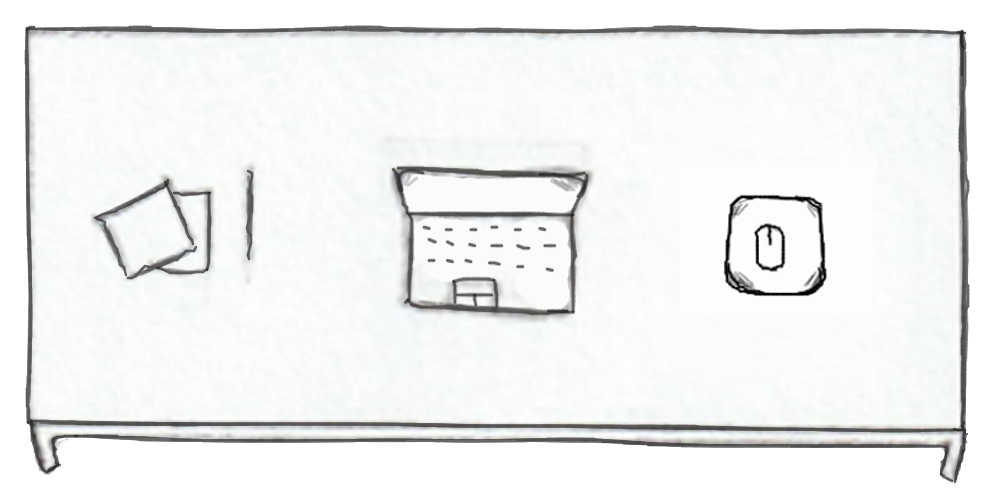
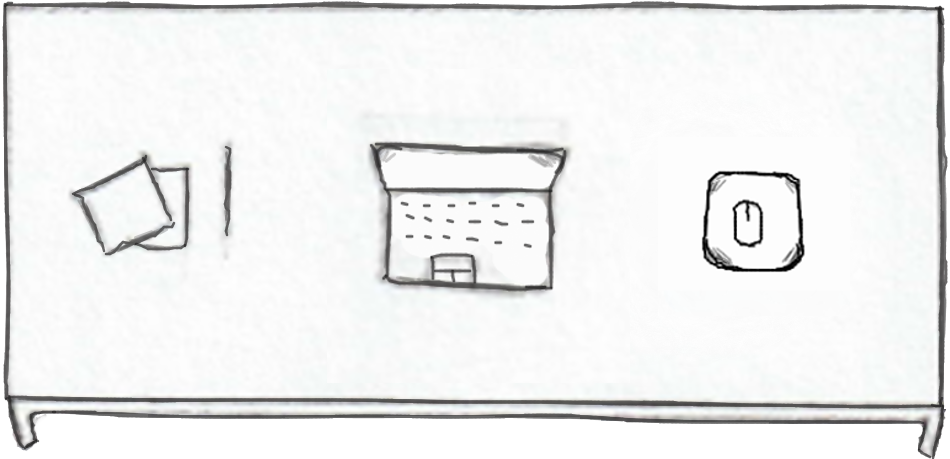
added resizing, rotating, & deleting to furniture
Basically a finished product at this point, but I will be adding quite a bit more to make this app look more refined!

Changed region(s): [[0.0, 0.0, 1.0, 1.0], [0.3663, 0.305, 0.6105, 0.6405], [0.7021, 0.366, 0.8547, 0.61]]

diff --git a/main.py b/main.py
@@ -1,22 +1,24 @@
 # Room Planner!
 # Author: Logan Markley
-# Last Updated: 8/6/2023
+# Last Updated: 8/7/2023
 # Version: Not Finished
-# Latest Addition: Added ability to spawn in and move furniture
+# Latest Addition: Added ability to rotate, scale, and delete furniture
 # Date Started: 8/2/2023
-# Desc: Using Pygame and maybe Pickle, create a fully functioning room planner
+# Desc: Using Pygame, create a fully functioning room planner
 #       where you can drag and drop items, customize dimensions, etc.
 
-import pygame, random
 from sys import exit
-from math import sqrt
+
+import math
+import pygame
+import random
 
 
 def draw_line(vertex1, vertex2) -> None:  # this static function allows for easy color changing and simpler lines
     offset = pygame.math.Vector2(VERTEX_RADIUS, VERTEX_RADIUS)
     vertex1_vector = pygame.math.Vector2(vertex1.rect.x, vertex1.rect.y) + offset
     vertex2_vector = pygame.math.Vector2(vertex2.rect.x, vertex2.rect.y) + offset
-    pygame.draw.aaline(screen, (150, 150, 150), vertex1_vector, vertex2_vector)
+    pygame.draw.aaline(screen, (0, 0, 0), vertex1_vector, vertex2_vector)
     # draw line starts the line from the top left corner of the rect, but we want to connect it
     # to the center of our rectangle, so we need to offset the position vector by the radius
 
@@ -24,8 +26,8 @@ def draw_line(vertex1, vertex2) -> None:  # this static function allows for easy
 def calculate_distance(vertex1, vertex2) -> int:  # returns the distance between two vertices in "inches"
     x_difference = vertex1.rect.x - vertex2.rect.x
     y_difference = vertex1.rect.y - vertex2.rect.y
-    hypotenuse = sqrt(x_difference ** 2 + y_difference ** 2)
-    return int(hypotenuse // 5)  # (5px = 1in)
+    hypotenuse = math.sqrt(x_difference ** 2 + y_difference ** 2)
+    return int(hypotenuse // PIXELS_PER_INCH)
 
 
 def calculate_halfway_point(vertex1, vertex2) -> tuple:
@@ -36,12 +38,20 @@ def calculate_halfway_point(vertex1, vertex2) -> tuple:
 
 class Room:
     def __init__(self):
-        self.wall_vertices = [Vertex(700, 300), Vertex(1100, 300),
-                              Vertex(1100, 600), Vertex(700, 600)]
+        self.wall_vertices = [Vertex(550, 100), Vertex(1350, 100),
+                              Vertex(1350, 800), Vertex(550, 800)]
         self.furniture_pieces = []
 
-    def add_furniture(self, furn_object):
+    def add_furniture(self, furn_object) -> None:
         self.furniture_pieces.append(furn_object)
+
+    def delete_furniture(self, index) -> None:
+        self.furniture_pieces.pop(index)
+
+    def bring_furn_to_top(self, index) -> int:  # moves the object at index to the end of the list
+        self.furniture_pieces.append(self.furniture_pieces[index])
+        self.furniture_pieces.pop(index)
+        return len(self.furniture_pieces) - 1
 
     def add_vertex(self) -> None:
         vert1 = self.wall_vertices[0]
@@ -54,17 +64,9 @@ class Room:
             self.wall_vertices.pop(len(self.wall_vertices) - 1)
 
     def draw_walls(self) -> None:
-        all_connected = False
-        current_index = 0
-        while not all_connected:
-            draw_line(self.wall_vertices[current_index], self.wall_vertices[current_index + 1])
-            draw_line(self.wall_vertices[current_index], self.wall_vertices[current_index + 1])
-            draw_line(self.wall_vertices[current_index], self.wall_vertices[current_index + 1])
-            if current_index < len(self.wall_vertices) - 2:
-                current_index += 1
-            else:
-                all_connected = True
-                draw_line(self.wall_vertices[current_index + 1], self.wall_vertices[0])  # This draws the last line
+        for index in range(len(self.wall_vertices) - 1):
+            draw_line(self.wall_vertices[index], self.wall_vertices[index + 1])
+        draw_line(self.wall_vertices[len(self.wall_vertices) - 1], self.wall_vertices[0])  # draws the last line
 
     def draw_vertices(self) -> None:
         for i in range(0, len(self.wall_vertices)):
@@ -74,18 +76,21 @@ class Room:
         f = pygame.font.Font('Fonts/MADEVoyager.otf', 18)
         for i in range(0, len(self.wall_vertices)):
             if i == len(self.wall_vertices) - 1:
-                distance = calculate_distance(self.wall_vertices[i], self.wall_vertices[0])
-                halfway_pt = calculate_halfway_point(self.wall_vertices[i], self.wall_vertices[0])
+                distance = calculate_distance(self.wall_vertices[0], self.wall_vertices[i])
+                halfway_pt = calculate_halfway_point(self.wall_vertices[0], self.wall_vertices[i])
             else:
                 distance = calculate_distance(self.wall_vertices[i], self.wall_vertices[i + 1])
                 halfway_pt = calculate_halfway_point(self.wall_vertices[i], self.wall_vertices[i + 1])
+
             dimension = str(distance) + '"'
             text_surface = f.render(dimension, True, (100, 100, 100))
             screen.blit(text_surface, (halfway_pt[0] + 4, halfway_pt[1] - 21))  # arbitrary styling numbers
 
-    def draw_all_furniture(self) -> None:
+    def draw_all_furniture(self, draw_overlay, overlay_index) -> None:
         for i in range(0, len(self.furniture_pieces)):
             self.furniture_pieces[i].draw_furniture()
+        if draw_overlay:
+            self.furniture_pieces[overlay_index].draw_furn_overlay()
 
 
 class Vertex:
@@ -98,36 +103,57 @@ class Vertex:
 
 
 class Furniture:
-    def __init__(self, f_type, id_num):
-        self.id = id_num
+    def __init__(self, f_type):
         self.furn_type = f_type
         if self.furn_type == 'Bed':
-            self.img = pygame.transform.scale_by(BED_IMG, .27)
+            self.img = pygame.transform.scale_by(BED_IMG, .47)
         elif self.furn_type == 'Desk':
-            self.img = pygame.transform.scale_by(DESK_IMG, .15)
+            self.img = pygame.transform.scale_by(DESK_IMG, .25)
         elif self.furn_type == 'Nightstand':
-            self.img = pygame.transform.scale_by(NIGHTSTAND_IMG, .103)
+            self.img = pygame.transform.scale_by(NIGHTSTAND_IMG, .23)
         elif self.furn_type == 'Rug':
-            self.img = pygame.transform.scale_by(RUG_IMG, .14)
+            self.img = pygame.transform.scale_by(RUG_IMG, .24)
         elif self.furn_type == 'Dresser':
-            self.img = pygame.transform.scale_by(DRESSER_IMG, .13)
+            self.img = pygame.transform.scale_by(DRESSER_IMG, .33)
         elif self.furn_type == 'Chair':
-            self.img = pygame.transform.scale_by(CHAIR_IMG, .12)
+            self.img = pygame.transform.scale_by(CHAIR_IMG, .32)
         elif self.furn_type == 'TV':
-            self.img = pygame.transform.scale_by(TV_IMG, .12)
+            self.img = pygame.transform.scale_by(TV_IMG, .32)
         elif self.furn_type == 'Lamp':
-            self.img = pygame.transform.scale_by(LAMP_IMG, .12)
+            self.img = pygame.transform.scale_by(LAMP_IMG, .32)
         elif self.furn_type == 'Door':
-            self.img = pygame.transform.scale_by(DOOR_IMG, .12)
+            self.img = pygame.transform.scale_by(DOOR_IMG, .32)
         elif self.furn_type == 'Window':
-            self.img = pygame.transform.scale_by(WINDOW_IMG, .12)
+            self.img = pygame.transform.scale_by(WINDOW_IMG, .32)
         self.rect = self.img.get_rect()
-        x_pos = random.randint(730, 1070)
+        x_pos = random.randint(730, 1070)  # initially spawn the furniture randomly in the middle
         y_pos = random.randint(330, 570)
         self.rect.center = (x_pos, y_pos)
 
-    def draw_furniture(self):
+        self.rotate_btn_img = pygame.image.load('Graphics/rotate_arrow.png').convert_alpha()
+        self.rotate_btn_rect = self.rotate_btn_img.get_rect()
+        self.delete_btn_img = pygame.image.load('Graphics/red_x_circle.png').convert_alpha()
+        self.delete_btn_rect = self.delete_btn_img.get_rect()
+
+    def draw_furniture(self) -> None:
         screen.blit(self.img, self.rect.topleft)
+
+    def draw_furn_overlay(self) -> None:
+        self.rotate_btn_rect.topleft = self.rect.bottomright
+        screen.blit(self.rotate_btn_img, self.rotate_btn_rect.topleft)
+        self.delete_btn_rect.topleft = self.rect.topright
+        screen.blit(self.delete_btn_img, self.delete_btn_rect.topleft)
+
+    def rotate_furniture(self, mouse) -> None:
+        old_center = self.rect.center
+        x = mouse[0] - self.rect.centerx
+        y = mouse[1] - self.rect.centery
+        d = math.sqrt(x ** 2 + y ** 2)
+        angle = math.degrees(-math.atan2(y, x))
+        scale = abs(3.1 * d / SCREEN_WIDTH)
+        self.img = pygame.transform.rotozoom(globals()[self.furn_type.upper() + '_IMG'], angle, scale)
+        self.rect = self.img.get_rect()
+        self.rect.center = old_center
 
 
 class UserInterface:
@@ -150,7 +176,7 @@ class UserInterface:
         self.btn_door_rect = pygame.Rect(2, 58 + 4 * (btn_height + 4), btn_width, btn_height)
         self.btn_window_rect = pygame.Rect(7 + btn_width, 58 + 4 * (btn_height + 4), btn_width, btn_height)
 
-    def draw_user_interface(self):
+    def draw_user_interface(self) -> None:
         self.draw_furniture_panel()
         pygame.draw.rect(screen, (100, 200, 100), self.btn_add_vertex_rect, 0, 10)
         pygame.draw.rect(screen, (200, 100, 100), self.btn_minus_vertex_rect, 0, 10)
@@ -168,14 +194,18 @@ class UserInterface:
         text_surface = f.render('+', True, (80, 80, 80))
         screen.blit(text_surface, (SCREEN_WIDTH - 66, SCREEN_HEIGHT - 110))  # plus sign on button
 
-    def draw_grid(self, draw_grid_bool):
-        if draw_grid_bool:
-            for i in range(0, 56):  # draws horizontal lines and then vertical lines with 20 pixel gaps
-                pygame.draw.line(screen, (225, 225, 225), (self.FURNITURE_PANEL_WIDTH, i * 20), (SCREEN_WIDTH, i * 20))
-                pygame.draw.line(screen, (225, 225, 225), (self.FURNITURE_PANEL_WIDTH + i * 20, 0),
-                                 (self.FURNITURE_PANEL_WIDTH + i * 20, SCREEN_HEIGHT))
+    def draw_grid(self) -> None:
+        pixel_gap = 20
+        num_horizontal_lines = SCREEN_HEIGHT // pixel_gap + 1  # an extra just in case
+        num_vertical_lines = (SCREEN_WIDTH - self.FURNITURE_PANEL_WIDTH) // pixel_gap + 1
+        for i in range(0, num_horizontal_lines):
+            pygame.draw.line(screen, (225, 225, 225), (self.FURNITURE_PANEL_WIDTH, i * pixel_gap),
+                             (SCREEN_WIDTH, i * pixel_gap))
+        for i in range(0, num_vertical_lines):
+            pygame.draw.line(screen, (225, 225, 225), (self.FURNITURE_PANEL_WIDTH + i * pixel_gap, 0),
+                             (self.FURNITURE_PANEL_WIDTH + i * pixel_gap, SCREEN_HEIGHT))
 
-    def draw_furniture_panel(self):
+    def draw_furniture_panel(self) -> None:
         rect = pygame.Rect(0, 0, self.FURNITURE_PANEL_WIDTH, SCREEN_HEIGHT)  # background gray of the panel
         pygame.draw.rect(screen, (230, 230, 230), rect)
         rect = pygame.Rect(self.FURNITURE_PANEL_WIDTH, 0, 2, SCREEN_HEIGHT)  # vertical line isolates panel
@@ -195,16 +225,16 @@ class UserInterface:
             pygame.draw.rect(screen, (180, 180, 180), rect)
 
         # drawing the furniture images:
-        screen.blit(pygame.transform.scale_by(BED_IMG, .3), (40, 70))
+        screen.blit(pygame.transform.scale_by(BED_IMG, .3), (40, 72))
         screen.blit(pygame.transform.scale_by(DESK_IMG, .16), (222, 104))
-        screen.blit(pygame.transform.scale_by(NIGHTSTAND_IMG, .18), (43, 280))
+        screen.blit(pygame.transform.scale_by(NIGHTSTAND_IMG, .18), (43, 286))
         screen.blit(pygame.transform.scale_by(RUG_IMG, .15), (228, 290))
         screen.blit(pygame.transform.scale_by(DRESSER_IMG, .151), (27, 470))
-        screen.blit(pygame.transform.scale_by(CHAIR_IMG, .18), (244, 464))
+        screen.blit(pygame.transform.scale_by(CHAIR_IMG, .18), (248, 470))
         screen.blit(pygame.transform.scale_by(TV_IMG, .16), (18, 652))
         screen.blit(pygame.transform.scale_by(LAMP_IMG, .212), (246, 634))
         screen.blit(pygame.transform.scale_by(DOOR_IMG, .172), (18, 854))
-        screen.blit(pygame.transform.scale_by(WINDOW_IMG, .179), (222, 860))
+        screen.blit(pygame.transform.scale_by(WINDOW_IMG, .175), (228, 864))
 
 
 pygame.init()
@@ -217,6 +247,7 @@ SCREEN_BACKGROUND_COLOR = (250, 250, 245)
 screen = pygame.display.set_mode((SCREEN_WIDTH, SCREEN_HEIGHT))
 
 VERTEX_RADIUS = 7
+PIXELS_PER_INCH = 4  # (4px = 1in)
 
 BED_IMG = pygame.image.load('Graphics/Bed.png').convert_alpha()
 DESK_IMG = pygame.image.load('Graphics/Desk.png').convert_alpha()
@@ -238,6 +269,8 @@ room = Room()
 ui = UserInterface()
 active_vertex_index = -1
 active_furniture_index = -1
+rotate_furn_btn_held = False
+draw_furn_overlay = False
 show_grid_bool = True
 while True:
     for event in pygame.event.get():
@@ -247,13 +280,24 @@ while True:
 
         if event.type == pygame.MOUSEBUTTONDOWN:
             if event.button == 1:
+                if len(room.furniture_pieces) > 0:
+                    if room.furniture_pieces[len(room.furniture_pieces) - 1].delete_btn_rect.collidepoint(event.pos):
+                        room.delete_furniture(len(room.furniture_pieces) - 1)
+                        draw_furn_overlay = False
+                    elif room.furniture_pieces[len(room.furniture_pieces) - 1].rotate_btn_rect.collidepoint(event.pos):
+                        rotate_furn_btn_held = True
+                    else:
+                        draw_furn_overlay = False  # turns off the overlay if the user clicks anywhere besides it
+
                 for num, vertex in enumerate(room.wall_vertices):
                     if vertex.rect.collidepoint(event.pos):
                         active_vertex_index = num
-                if active_vertex_index == -1:   # only checks the furniture if no vertex is being clicked
+                if active_vertex_index == -1 and not rotate_furn_btn_held:  # only checks furniture if nothing is held
                     for num, furniture in enumerate(room.furniture_pieces):
                         if furniture.rect.collidepoint(event.pos):
                             active_furniture_index = num
+                            active_furniture_index = room.bring_furn_to_top(active_furniture_index)
+                            draw_furn_overlay = True
 
                 if ui.btn_add_vertex_rect.collidepoint(event.pos):
                     room.add_vertex()
@@ -263,44 +307,49 @@ while True:
                     show_grid_bool = not show_grid_bool
 
                 if ui.btn_bed_rect.collidepoint(event.pos):
-                    room.add_furniture(Furniture('Bed', len(room.furniture_pieces)))
+                    room.add_furniture(Furniture('Bed'))
                 if ui.btn_desk_rect.collidepoint(event.pos):
-                    room.add_furniture(Furniture('Desk', len(room.furniture_pieces)))
+                    room.add_furniture(Furniture('Desk'))
                 if ui.btn_nightstand_rect.collidepoint(event.pos):
-                    room.add_furniture(Furniture('Nightstand', len(room.furniture_pieces)))
+                    room.add_furniture(Furniture('Nightstand'))
                 if ui.btn_rug_rect.collidepoint(event.pos):
-                    room.add_furniture(Furniture('Rug', len(room.furniture_pieces)))
+                    room.add_furniture(Furniture('Rug'))
                 if ui.btn_dresser_rect.collidepoint(event.pos):
-                    room.add_furniture(Furniture('Dresser', len(room.furniture_pieces)))
+                    room.add_furniture(Furniture('Dresser'))
                 if ui.btn_chair_rect.collidepoint(event.pos):
-                    room.add_furniture(Furniture('Chair', len(room.furniture_pieces)))
+                    room.add_furniture(Furniture('Chair'))
                 if ui.btn_tv_rect.collidepoint(event.pos):
-                    room.add_furniture(Furniture('TV', len(room.furniture_pieces)))
+                    room.add_furniture(Furniture('TV'))
                 if ui.btn_lamp_rect.collidepoint(event.pos):
-                    room.add_furniture(Furniture('Lamp', len(room.furniture_pieces)))
+                    room.add_furniture(Furniture('Lamp'))
                 if ui.btn_door_rect.collidepoint(event.pos):
-                    room.add_furniture(Furniture('Door', len(room.furniture_pieces)))
+                    room.add_furniture(Furniture('Door'))
                 if ui.btn_window_rect.collidepoint(event.pos):
-                    room.add_furniture(Furniture('Window', len(room.furniture_pieces)))
+                    room.add_furniture(Furniture('Window'))
 
         if event.type == pygame.MOUSEBUTTONUP:
             if event.button == 1:
                 active_vertex_index = -1
                 active_furniture_index = -1
+            if rotate_furn_btn_held:
+                rotate_furn_btn_held = False
 
         if event.type == pygame.MOUSEMOTION:
             if active_vertex_index != -1:
                 room.wall_vertices[active_vertex_index].rect.move_ip(event.rel)
             if active_furniture_index != -1:
                 room.furniture_pieces[active_furniture_index].rect.move_ip(event.rel)
+            if rotate_furn_btn_held:
+                room.furniture_pieces[len(room.furniture_pieces) - 1].rotate_furniture(event.pos)
 
     screen.fill(SCREEN_BACKGROUND_COLOR)
 
-    ui.draw_grid(show_grid_bool)
+    if show_grid_bool:
+        ui.draw_grid()
     room.draw_walls()
     room.draw_vertices()
     room.draw_wall_dimensions()
-    room.draw_all_furniture()
+    room.draw_all_furniture(draw_furn_overlay, active_furniture_index)
     ui.draw_user_interface()
 
     pygame.display.update()
